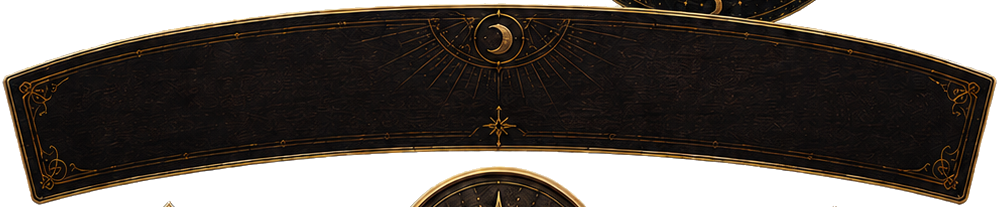
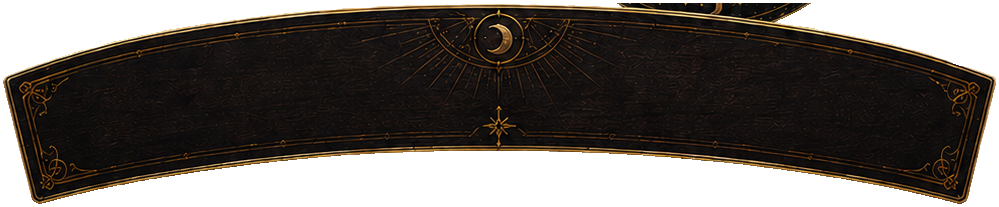
single-player-v2: remove title art, clean hand dock, gap HUD panels
- Remove the title graphic/text (keep #titleWrap for the corner buttons).
- Re-cut hand-dock.png masked to its own component so the sun medallion that
  bled in from below no longer protrudes/clips at the bottom-center.
- Add a small gap between the four stat panels so each reads as a distinct tile.

Claude-Session: https://claude.ai/code/session_017i23gQgiHpCrEqxgnCEA3c

diff --git a/src/styles/singlePlayerV2ArtIntegration.css b/src/styles/singlePlayerV2ArtIntegration.css
@@ -38,14 +38,18 @@
     content: none !important;
   }
 
-  /* The title art tile already reads "THE LAST READING"; drop the duplicate
-     CSS text overlay and restore the art to full opacity. */
-  body.single-player-v2.generated-sheet-ready #titleWrap::after {
+  /* Title art removed per design; keep #titleWrap for the corner buttons it
+     hosts, but render no title graphic or text. */
+  body.single-player-v2.generated-sheet-ready #titleWrap::after,
+  body.single-player-v2.generated-sheet-ready #titleWrap::before {
     content: none !important;
+    background: none !important;
   }
 
-  body.single-player-v2.generated-sheet-ready #titleWrap::before {
-    opacity: 1 !important;
+  /* Separate the four stat panels so each card's rounded border reads as a
+     distinct tile rather than butting edge-to-edge. */
+  body.single-player-v2.generated-sheet-ready .score-stack {
+    gap: 6px !important;
   }
 
   /* Utility buttons carry their icon as art, so drop the text fallbacks